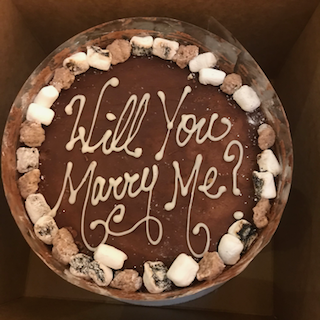
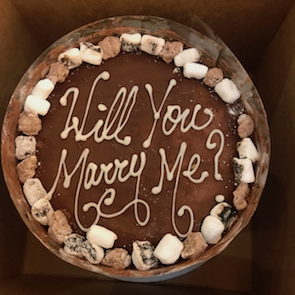
fix images for couple component

diff --git a/src/app/couple/couple.component.html b/src/app/couple/couple.component.html
@@ -23,9 +23,8 @@
     </div>
   </div>
   <div class="row">
-    <img src="assets/cake2.png" class="rect-img">
-    <img src="assets/proposal.jpg" class="rect-img">
-    <img src="assets/cake2.png" class="rect-img">
+    <img src="assets/proposal.jpg" class="rect-img rect1">
+    <img src="assets/cake.png" class="rect-img rect2">
   </div>
   <div class="proposal">
     <div class="section-left">

diff --git a/src/app/couple/couple.component.css b/src/app/couple/couple.component.css
@@ -54,6 +54,12 @@
   height: 100%;
   width: 33%;
 }
+.rect-img.rect2{
+  width: 35%;
+}
+.rect-img.rect1{
+  width: 46.75%;
+}
 .couple-title{
   text-align: center;
   font-size: 42px;
